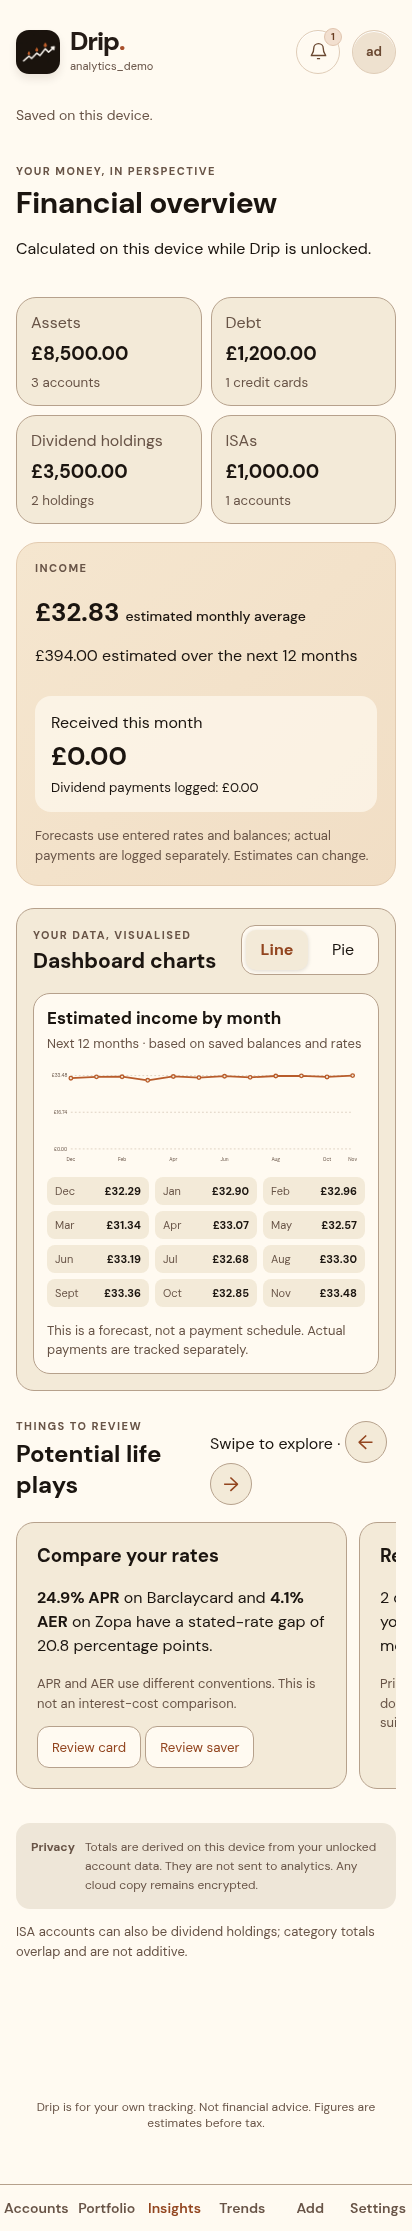
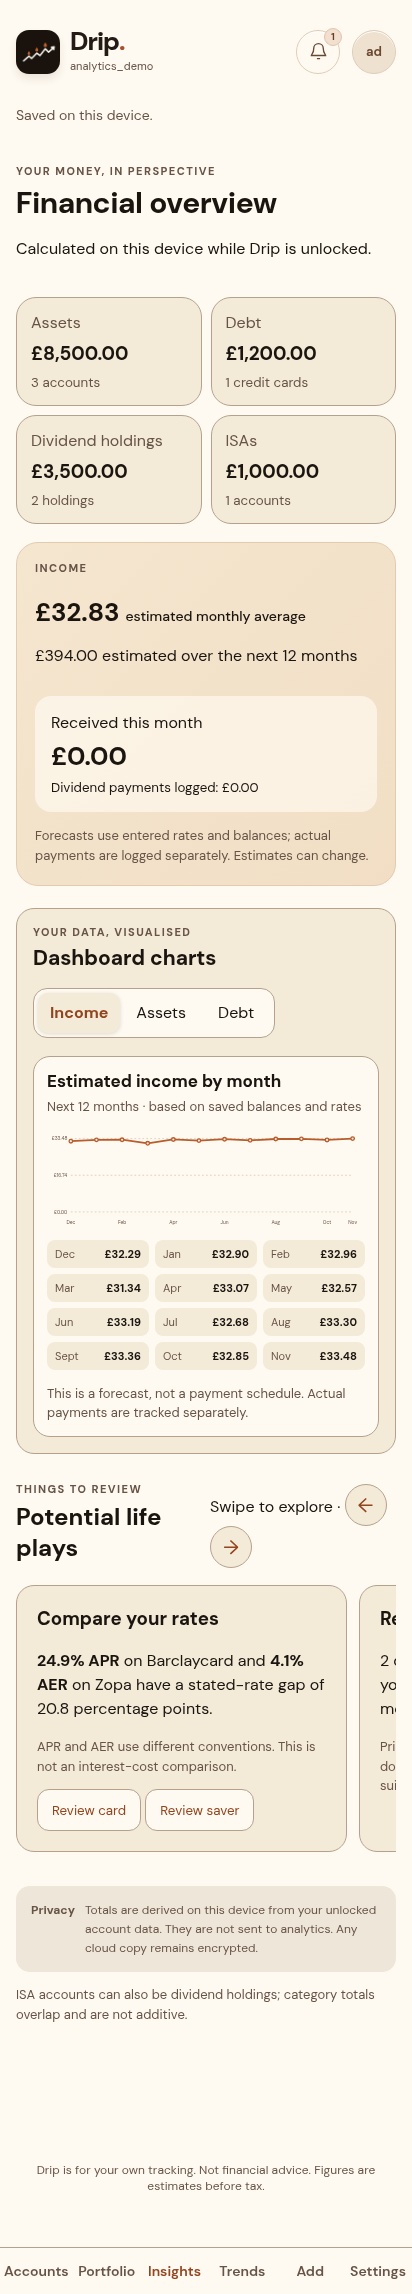
feat: separate debt and income dashboard views

diff --git a/app/AnalyticsDashboardCharts.tsx b/app/AnalyticsDashboardCharts.tsx
@@ -5,7 +5,8 @@ import type { analyticsDashboardModel } from "@/lib/analytics-dashboard";
 import s from "./analytics-dashboard-charts.module.css";
 
 type ChartData = ReturnType<typeof analyticsDashboardModel>["charts"];
-type ChartView = "line" | "pie";
+type ChartView = "income" | "assets" | "debt";
+type PieSlice = { id: string; label: string; value: number };
 const colors = ["#b85c2b", "#397c69", "#637bb5"];
 const monthLabel = (month: string) => new Intl.DateTimeFormat("en-GB", { month: "short", timeZone: "UTC" }).format(new Date(`${month}-01T00:00:00Z`));
 
@@ -29,20 +30,43 @@ function slicePath(start: number, end: number, total: number) {
   return `M ${cx} ${cy} L ${x1} ${y1} A ${radius} ${radius} 0 ${large} 1 ${x2} ${y2} Z`;
 }
 
+function PieFigure({ title, description, centerLabel, slices, note, empty }: Readonly<{
+  title: string; description: string; centerLabel: string; slices: PieSlice[]; note: string; empty: string;
+}>) {
+  const total = slices.reduce((sum, slice) => sum + slice.value, 0);
+  return <figure className={s.figure} aria-label={`${title} chart`}>
+    <figcaption><strong>{title}</strong><span>{description}</span></figcaption>
+    {total > 0 ? <div className={s.pieLayout}>
+      <svg className={s.pieChart} viewBox="0 0 220 220" role="img" aria-label={`${title} totalling ${gbp(total)}: ${slices.map(slice => `${slice.label} ${gbp(slice.value)}`).join(", ")}`}>
+        {slices.length === 1 ? <circle cx="110" cy="110" r="92" fill={colors[0]}/> : slices.reduce<{ prior: number; paths: ReactNode[] }>((state, slice, index) => {
+          const end = state.prior + slice.value;
+          state.paths.push(<path key={slice.id} d={slicePath(state.prior, end, total)} fill={colors[index % colors.length]}/>);
+          state.prior = end;
+          return state;
+        }, { prior: 0, paths: [] }).paths}
+        <circle cx="110" cy="110" r="49" fill="var(--panel)"/>
+        <text x="110" y="105" textAnchor="middle" className={s.pieTotalLabel}>{centerLabel.toUpperCase()}</text><text x="110" y="127" textAnchor="middle" className={s.pieTotal}>{gbp(total)}</text>
+      </svg>
+      <ul className={s.legend}>{slices.map((slice, index) => <li key={slice.id}><span className={s.swatch} style={{ "--swatch": colors[index % colors.length] } as CSSProperties}/><span>{slice.label}<small>{(slice.value / total * 100).toFixed(1)}%</small></span><b>{gbp(slice.value)}</b></li>)}</ul>
+    </div> : <p className={s.empty}>{empty}</p>}
+    <p className={s.note}>{note}</p>
+  </figure>;
+}
+
 export function AnalyticsDashboardCharts({ charts }: Readonly<{ charts: ChartData }>) {
-  const [view, setView] = useState<ChartView>("line");
+  const [view, setView] = useState<ChartView>("income");
   const maxMonthlyIncome = Math.max(...charts.incomeTrend.map(point => point.income), 0);
   const allocation = charts.allocation.filter(slice => slice.value > 0);
-  const assetTotal = allocation.reduce((sum, slice) => sum + slice.value, 0);
 
   return <section className={s.panel} aria-labelledby="dashboard-charts-title">
     <div className={s.header}><div><p className={s.kicker}>YOUR DATA, VISUALISED</p><h2 id="dashboard-charts-title">Dashboard charts</h2></div>
       <div className={s.switch} role="group" aria-label="Dashboard chart view">
-        <button type="button" aria-pressed={view === "line"} onClick={() => setView("line")}>Line</button>
-        <button type="button" aria-pressed={view === "pie"} onClick={() => setView("pie")}>Pie</button>
+        <button type="button" aria-pressed={view === "income"} onClick={() => setView("income")}>Income</button>
+        <button type="button" aria-pressed={view === "assets"} onClick={() => setView("assets")}>Assets</button>
+        <button type="button" aria-pressed={view === "debt"} onClick={() => setView("debt")}>Debt</button>
       </div>
     </div>
-    {view === "line" ? <figure className={s.figure} aria-label="Estimated monthly income chart">
+    {view === "income" ? <figure className={s.figure} aria-label="Estimated monthly income chart">
       <figcaption><strong>Estimated income by month</strong><span>Next 12 months · based on saved balances and rates</span></figcaption>
       {maxMonthlyIncome > 0 ? <>
         <svg className={s.lineChart} viewBox="0 0 720 230" role="img" aria-label={`Estimated monthly income over the next 12 months, from ${gbp(charts.incomeTrend[0]?.income ?? 0)} to ${gbp(charts.incomeTrend.at(-1)?.income ?? 0)} per month`}>
@@ -54,22 +78,6 @@ export function AnalyticsDashboardCharts({ charts }: Readonly<{ charts: ChartDat
         <ul className={s.dataList} aria-label="Monthly estimate values">{charts.incomeTrend.map(point => <li key={point.month}><span>{monthLabel(point.month)}</span><b>{gbp(point.income)}</b></li>)}</ul>
       </> : <p className={s.empty}>Add an account with an interest rate or dividend yield to see an income forecast.</p>}
       <p className={s.note}>This is a forecast, not a payment schedule. Actual payments are tracked separately.</p>
-    </figure> : <figure className={s.figure} aria-label="Asset allocation chart">
-      <figcaption><strong>Asset mix</strong><span>Saved asset balances · debt shown separately above</span></figcaption>
-      {assetTotal > 0 ? <div className={s.pieLayout}>
-        <svg className={s.pieChart} viewBox="0 0 220 220" role="img" aria-label={`Asset mix totalling ${gbp(assetTotal)}: ${allocation.map(slice => `${slice.label} ${gbp(slice.value)}`).join(", ")}`}>
-          {allocation.length === 1 ? <circle cx="110" cy="110" r="92" fill={colors[charts.allocation.findIndex(slice => slice.id === allocation[0].id)]}/> : allocation.reduce<{ prior: number; paths: ReactNode[] }>((state, slice) => {
-            const end = state.prior + slice.value;
-            state.paths.push(<path key={slice.id} d={slicePath(state.prior, end, assetTotal)} fill={colors[charts.allocation.indexOf(slice)]}/>);
-            state.prior = end;
-            return state;
-          }, { prior: 0, paths: [] }).paths}
-          <circle cx="110" cy="110" r="49" fill="var(--panel)"/>
-          <text x="110" y="105" textAnchor="middle" className={s.pieTotalLabel}>ASSETS</text><text x="110" y="127" textAnchor="middle" className={s.pieTotal}>{gbp(assetTotal)}</text>
-        </svg>
-        <ul className={s.legend}>{allocation.map(slice => <li key={slice.id}><span className={s.swatch} style={{ "--swatch": colors[charts.allocation.indexOf(slice)] } as CSSProperties}/><span>{slice.label}<small>{(slice.value / assetTotal * 100).toFixed(1)}%</small></span><b>{gbp(slice.value)}</b></li>)}</ul>
-      </div> : <p className={s.empty}>Add an account with a positive balance to see your asset mix.</p>}
-      <p className={s.note}>Each account appears in one slice. An ISA wrapper takes priority for dividend holdings inside an ISA. Debt is excluded.</p>
-    </figure>}
+    </figure> : view === "assets" ? <PieFigure title="Asset mix" description="Saved asset balances · debt shown separately" centerLabel="Assets" slices={allocation} note="Each account appears in one slice. An ISA wrapper takes priority for dividend holdings inside an ISA. Debt is excluded." empty="Add an account with a positive balance to see your asset mix."/> : <PieFigure title="Debt by account" description="Current amounts owed · income and assets shown separately" centerLabel="Debt" slices={charts.debtBreakdown} note="This compares recorded debt balances. It does not include projected income or estimate future interest." empty="Add a credit-card account with an amount owed to see your debt breakdown."/>}
   </section>;
 }

diff --git a/tests/analytics-dashboard.integration.test.tsx b/tests/analytics-dashboard.integration.test.tsx
@@ -10,15 +10,19 @@ it("renders device-local summary and navigable, labelled life-play carousel",()=
  expect(within(carousel).getByRole("group",{name:"1 of 2: Compare your rates"})).toBeVisible();
  expect(within(carousel).getByRole("group",{name:"2 of 2: Review dividend income"})).toBeVisible();
  const chartPanel=screen.getByRole("region",{name:"Dashboard charts"});
- expect(within(chartPanel).getByRole("button",{name:"Line"})).toHaveAttribute("aria-pressed","true");
+ expect(within(chartPanel).getByRole("button",{name:"Income"})).toHaveAttribute("aria-pressed","true");
  expect(within(chartPanel).getByRole("img",{name:/Estimated monthly income over the next 12 months/})).toBeVisible();
  expect(within(chartPanel).getByLabelText("Monthly estimate values")).toHaveTextContent("Dec");
- fireEvent.click(within(chartPanel).getByRole("button",{name:"Pie"}));
- expect(within(chartPanel).getByRole("button",{name:"Pie"})).toHaveAttribute("aria-pressed","true");
+ fireEvent.click(within(chartPanel).getByRole("button",{name:"Assets"}));
+ expect(within(chartPanel).getByRole("button",{name:"Assets"})).toHaveAttribute("aria-pressed","true");
  expect(within(chartPanel).getByRole("img",{name:/Asset mix totalling £8,500.00/})).toBeVisible();
  expect(within(chartPanel).getByText("ISAs")).toBeVisible();
  expect(within(chartPanel).getByText("Dividends outside ISAs")).toBeVisible();
- expect(within(chartPanel).queryByText("Debt")).toBeNull();
+ expect(within(chartPanel).queryByText("Barclaycard")).toBeNull();
+ fireEvent.click(within(chartPanel).getByRole("button",{name:"Debt"}));
+ expect(within(chartPanel).getByRole("img",{name:/Debt by account totalling £1,200.00: Barclaycard £1,200.00/})).toBeVisible();
+ expect(within(chartPanel).getByText("Current amounts owed · income and assets shown separately")).toBeVisible();
+ expect(within(chartPanel).queryByText("Estimated income by month")).toBeNull();
  Object.defineProperty(carousel,"scrollBy",{value:vi.fn(),configurable:true});
  fireEvent.click(screen.getByRole("button",{name:"Next life play"}));
  fireEvent.click(screen.getByRole("button",{name:"Review card"}));expect(onOpen).toHaveBeenCalledWith("credit");

diff --git a/e2e/analytics-dashboard.e2e.spec.ts b/e2e/analytics-dashboard.e2e.spec.ts
@@ -8,11 +8,15 @@ test("unlocked user reviews private analytics and opens an account from a life p
  await expect(page.getByRole("heading",{name:"Financial overview"})).toBeVisible();
  await expect(page.getByRole("region",{name:"Financial overview"})).toContainText("£1,200.00");
  const charts=page.getByRole("region",{name:"Dashboard charts"});
+ await expect(charts.getByRole("button",{name:"Income"})).toHaveAttribute("aria-pressed","true");
  await expect(charts.getByRole("img",{name:/Estimated monthly income over the next 12 months/})).toBeVisible();
- await charts.getByRole("button",{name:"Pie"}).click();
+ await charts.getByRole("button",{name:"Assets"}).click();
  await expect(charts.getByRole("img",{name:/Asset mix totalling/})).toBeVisible();
  if(process.env.DRIP_UI_CAPTURE){await mkdir("docs/screenshots/account-analytics",{recursive:true});await page.screenshot({path:"docs/screenshots/account-analytics/analytics-pie-mobile.png",fullPage:true,scale:"css"});}
- await charts.getByRole("button",{name:"Line"}).click();
+ await charts.getByRole("button",{name:"Debt"}).click();
+ await expect(charts.getByRole("img",{name:/Debt by account totalling/})).toBeVisible();
+ if(process.env.DRIP_UI_CAPTURE){await mkdir("docs/screenshots/account-analytics",{recursive:true});await page.screenshot({path:"docs/screenshots/account-analytics/analytics-debt-mobile.png",fullPage:true,scale:"css"});}
+ await charts.getByRole("button",{name:"Income"}).click();
  await expect(page.getByRole("region",{name:"Potential life plays carousel"})).toBeVisible();
  if(process.env.DRIP_UI_CAPTURE){await mkdir("docs/screenshots/account-analytics",{recursive:true});await page.screenshot({path:"docs/screenshots/account-analytics/analytics-mobile.png",fullPage:true,scale:"css"});}
  await page.getByRole("button",{name:"Review card"}).click();

diff --git a/lib/analytics-dashboard.ts b/lib/analytics-dashboard.ts
@@ -25,13 +25,18 @@ export function analyticsDashboardModel(accounts: Account[], today: string) {
     { id: "dividends", label: "Dividends outside ISAs", value: round2(dividends.filter(a => !isa(a)).reduce((sum, a) => sum + Math.max(a.balance, 0), 0)) },
     { id: "other", label: "Other assets", value: round2(assets.filter(a => !isa(a) && a.rateType !== "dividend").reduce((sum, a) => sum + Math.max(a.balance, 0), 0)) },
   ];
+  const debtBreakdown = debt.map(a => ({
+    id: a.id,
+    label: a.label.trim() || a.provider,
+    value: round2(Math.max(a.balance, 0)),
+  })).filter(account => account.value > 0);
   const month = today.slice(0, 7);
   const dividendReceivedThisMonth = round2(dividends.reduce((sum, a) => sum + a.payouts.filter(p => p.kind === "actual" && (p.incomeType ?? a.rateType) === "dividend" && p.date <= today && p.date.startsWith(month) && Number.isFinite(p.amount) && p.amount > 0).reduce((n, p) => n + p.amount, 0), 0));
   return {
     totals: { assets: round2(assets.reduce((n,a) => n + Math.max(a.balance,0),0)), debt: round2(debt.reduce((n,a) => n + Math.max(a.balance,0),0)), dividends: round2(dividends.reduce((n,a) => n + Math.max(a.balance,0),0)), isas: round2(isas.reduce((n,a) => n + Math.max(a.balance,0),0)) },
     counts: { assets: assets.length, debt: debt.length, dividends: dividends.length, isas: isas.length },
     income: { annualEstimate, monthlyEstimate: round2(annualEstimate / 12), receivedThisMonth: recordedIncome(assets, month, today), dividendReceivedThisMonth },
-    charts: { incomeTrend, allocation },
+    charts: { incomeTrend, allocation, debtBreakdown },
     rateComparison: card && saver && card.creditCard!.apr > saver.ratePct ? { card, saver, gap: round2(card.creditCard!.apr - saver.ratePct) } : null,
   };
 }

diff --git a/app/analytics-dashboard-charts.module.css b/app/analytics-dashboard-charts.module.css
@@ -30,4 +30,4 @@
 .legend b{font-variant-numeric:tabular-nums;white-space:nowrap}
 .swatch{width:11px;height:11px;border-radius:50%;background:var(--swatch)}
 .empty{padding:20px 0;color:var(--muted)}
-@media(max-width:700px){.panel{padding:16px;border-radius:18px}.header h2{font-size:21px}.figure{padding:13px}.dataList{grid-template-columns:repeat(3,minmax(0,1fr))}.pieLayout{grid-template-columns:1fr;gap:12px}.pieChart{width:min(68%,240px)}.legend{gap:7px}.legend li{font-size:12px}}
+@media(max-width:700px){.panel{padding:16px;border-radius:18px}.header{align-items:flex-start;flex-direction:column}.header h2{font-size:21px}.figure{padding:13px}.switch{max-width:100%}.switch button{min-width:68px}.dataList{grid-template-columns:repeat(3,minmax(0,1fr))}.pieLayout{grid-template-columns:1fr;gap:12px}.pieChart{width:min(68%,240px)}.legend{gap:7px}.legend li{font-size:12px}}

diff --git a/tests/analytics-dashboard.test.ts b/tests/analytics-dashboard.test.ts
@@ -54,5 +54,6 @@ describe("private analytics dashboard",()=>{
    {id:"other",label:"Other assets",value:5000},
   ]);
   expect(m.charts.allocation.reduce((total,slice)=>total+slice.value,0)).toBe(m.totals.assets);
+  expect(m.charts.debtBreakdown).toEqual([{id:"credit",label:"Barclaycard",value:1200}]);
  });
 });

diff --git a/docs/screenshots/account-analytics/README.md b/docs/screenshots/account-analytics/README.md
@@ -1,5 +1,5 @@
 # Account analytics dashboard
 
-`analytics-mobile.png` shows the line chart and `analytics-pie-mobile.png` shows the asset-mix chart on the mobile dashboard. Both use a disposable local test account. The dashboard is calculated in the unlocked browser from saved account data; values shown here are test fixtures, not a real user's finances.
+`analytics-mobile.png` shows the income line chart, `analytics-pie-mobile.png` shows the asset-mix pie, and `analytics-debt-mobile.png` shows debt separately by account. These use a disposable local test account. Dashboard charts are calculated in the unlocked browser from saved account data; values shown here are fixtures, not a real user's finances.
 
-Regenerate both with `DRIP_UI_CAPTURE=1 PW_CHROME=/path/to/chromium npx playwright test --project=mobile-chromium e2e/analytics-dashboard.e2e.spec.ts`.
+Regenerate all three with `DRIP_UI_CAPTURE=1 PW_CHROME=/path/to/chromium npx playwright test --project=mobile-chromium e2e/analytics-dashboard.e2e.spec.ts`.
